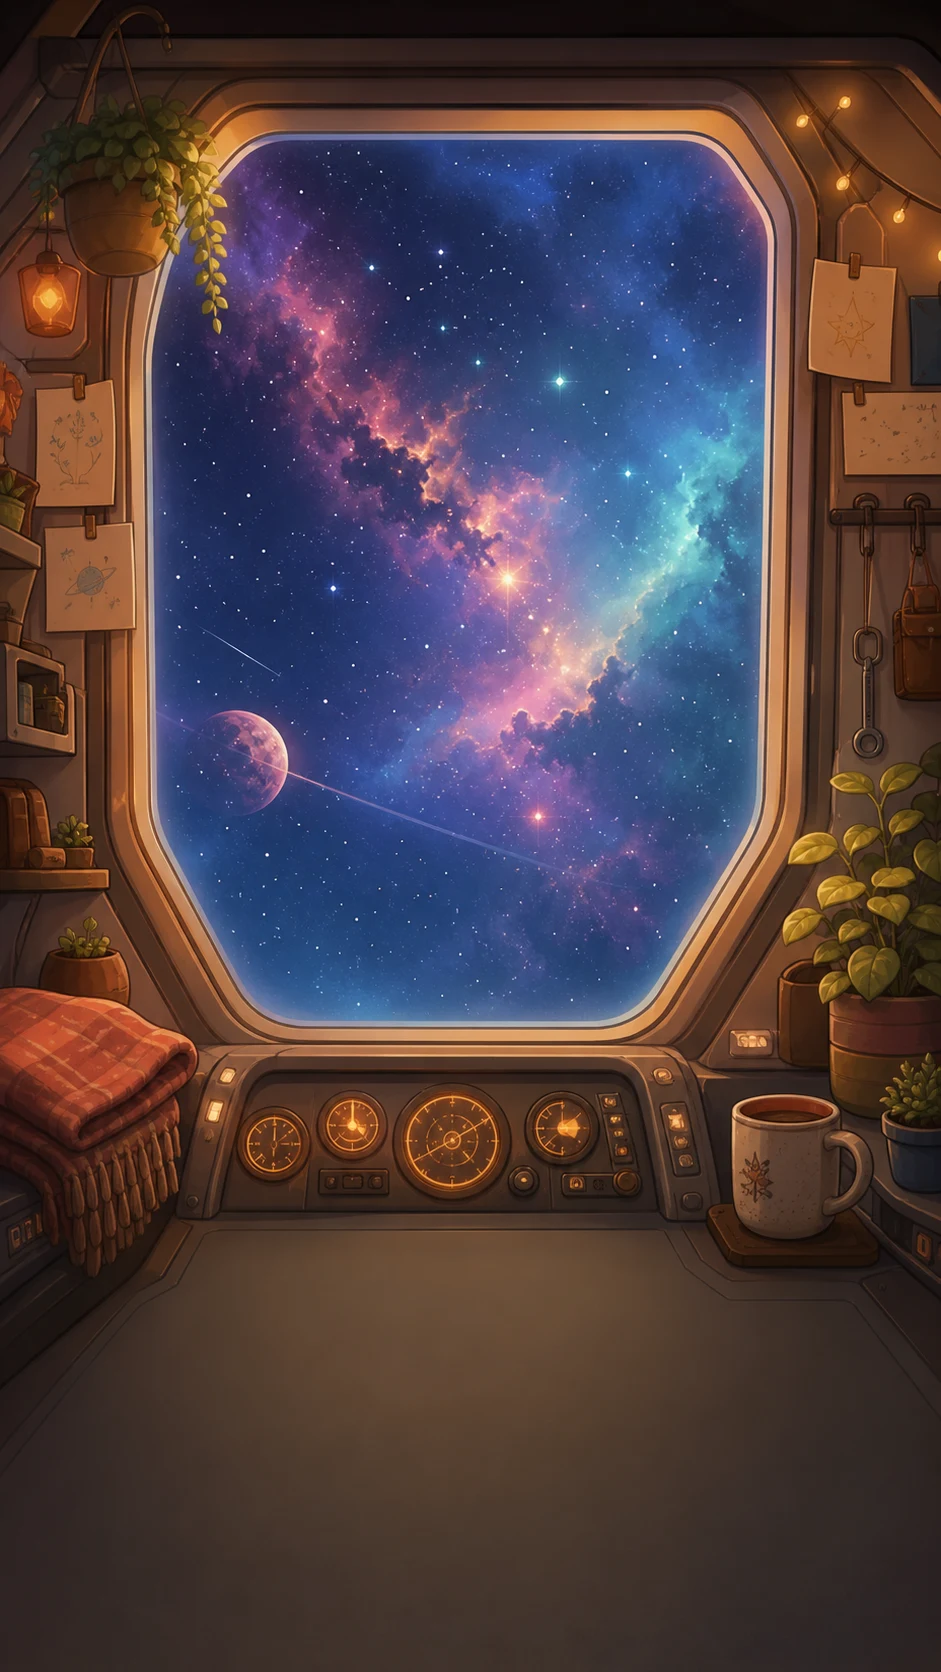
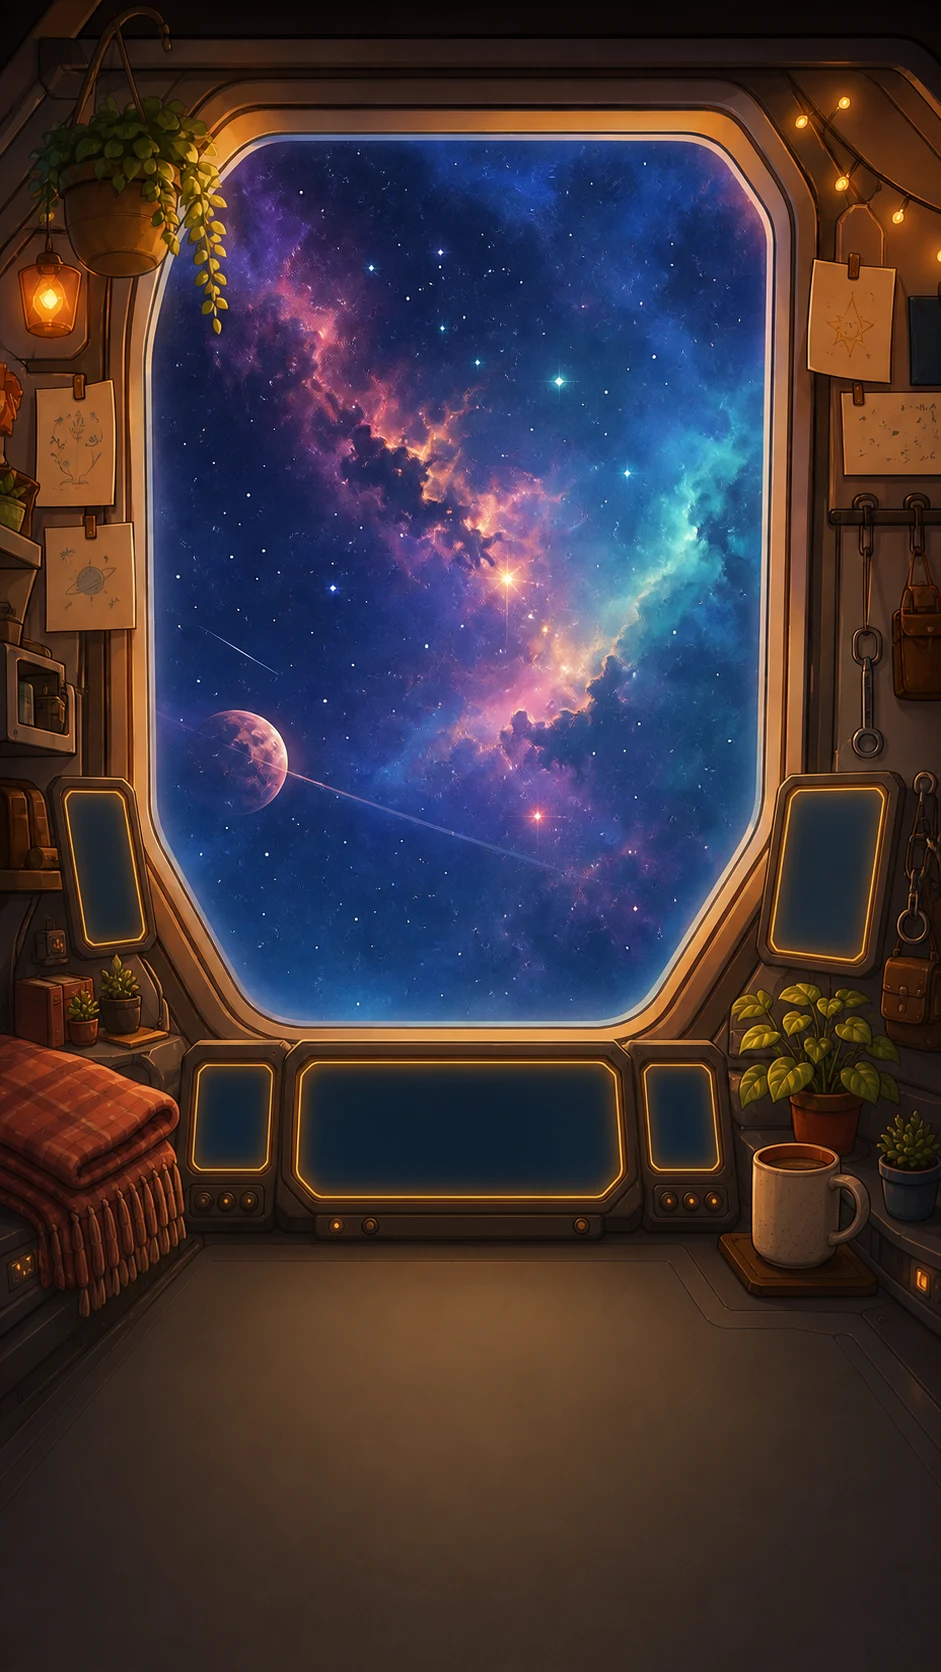
cockpit improvements, no png fallbacks

diff --git a/src/styles.css b/src/styles.css
@@ -58,7 +58,7 @@ button {
 }
 
 .topbar h1,
-.cockpit-status h2,
+.cockpit-location-display h2,
 .screen-heading h2,
 .current-lead h3,
 .voyage-overlay h2,
@@ -230,18 +230,40 @@ button {
     radial-gradient(circle at 50% 80%, rgba(255, 197, 110, 0.14), transparent 30%);
 }
 
-.cockpit-status {
+.cockpit-display {
   position: absolute;
-  inset: 10px 10px auto;
-  display: flex;
-  align-items: flex-start;
-  justify-content: space-between;
-  gap: 10px;
-  pointer-events: none;
+  z-index: 1;
+  color: #dff8ff;
+  text-shadow: 0 0 8px rgba(119, 216, 255, 0.42);
 }
 
-.cockpit-status > div:first-child {
-  max-width: 42%;
+.cockpit-location-display {
+  left: 7.5%;
+  top: 49%;
+  width: 10.5%;
+  min-height: 9%;
+  display: grid;
+  align-content: center;
+  justify-items: center;
+  padding: 6px 4px;
+  text-align: center;
+}
+
+.cockpit-location-display h2 {
+  max-width: 100%;
+  font-size: clamp(0.68rem, 2.7vw, 1rem);
+  line-height: 1.05;
+  overflow-wrap: anywhere;
+}
+
+.cockpit-resource-display {
+  right: 7.5%;
+  top: 49.5%;
+  width: 12%;
+  min-height: 10%;
+  display: grid;
+  align-content: center;
+  padding: 4px;
 }
 
 .resource-strip {
@@ -251,19 +273,16 @@ button {
 }
 
 .resource-strip.compact {
-  justify-content: flex-end;
-  max-width: min(58%, 440px);
-  padding: 6px 8px;
-  border: 1px solid rgba(255, 232, 168, 0.12);
-  border-radius: 999px;
-  background: rgba(13, 8, 25, 0.44);
-  backdrop-filter: blur(10px);
+  justify-content: center;
+  padding: 0;
+  border: 0;
+  border-radius: 0;
+  background: transparent;
+  backdrop-filter: none;
 }
 
 .resource-strip.compact .resource:not(:last-child)::after {
-  content: "·";
-  color: rgba(255, 232, 168, 0.48);
-  margin-left: 4px;
+  content: none;
 }
 
 .resource {
@@ -284,17 +303,42 @@ button {
   font-size: 0.78rem;
 }
 
+.cockpit-resource-display .resource-strip {
+  display: grid;
+  gap: 1px;
+}
+
+.cockpit-resource-display .resource {
+  justify-content: space-between;
+  gap: 3px;
+  color: #dff8ff;
+  font-size: 0.5rem;
+  line-height: 1.05;
+}
+
+.cockpit-resource-display .resource span {
+  max-width: 34px;
+  overflow: hidden;
+  color: #8fdcff;
+  font-size: 0.48rem;
+  text-overflow: clip;
+}
+
+.cockpit-resource-display .resource strong {
+  color: #ffe08b;
+  font-size: 0.56rem;
+}
+
 .current-lead {
-  position: absolute;
-  left: 10px;
-  right: 10px;
-  bottom: 10px;
-  max-height: 24%;
-  padding: 10px;
-  border: 1px solid rgba(255, 232, 168, 0.18);
-  border-radius: 8px;
-  background: rgba(17, 10, 30, 0.62);
-  backdrop-filter: blur(12px);
+  left: 29.5%;
+  right: 31%;
+  bottom: 24.6%;
+  min-height: 9.2%;
+  padding: 8px 10px;
+  border: 0;
+  border-radius: 0;
+  background: transparent;
+  backdrop-filter: none;
   overflow: hidden;
 }
 
@@ -310,18 +354,18 @@ button {
 }
 
 .current-lead h3 {
-  font-size: clamp(1rem, 4.5vw, 1.35rem);
+  font-size: clamp(0.76rem, 3.2vw, 1.1rem);
   line-height: 1.08;
 }
 
 .current-lead p:not(.eyebrow) {
   display: -webkit-box;
-  margin: 5px 0 0;
+  margin: 3px 0 0;
   overflow: hidden;
   -webkit-box-orient: vertical;
-  -webkit-line-clamp: 2;
-  font-size: 0.88rem;
-  line-height: 1.25;
+  -webkit-line-clamp: 1;
+  font-size: clamp(0.58rem, 2vw, 0.78rem);
+  line-height: 1.15;
 }
 
 .lead-footer {
@@ -329,17 +373,23 @@ button {
   align-items: center;
   justify-content: space-between;
   gap: 12px;
-  margin-top: 8px;
+  margin-top: 5px;
 }
 
 .lead-footer span {
   color: #aee8ff;
+  font-size: clamp(0.55rem, 2vw, 0.74rem);
   font-weight: 800;
 }
 
 .current-lead .primary-action {
-  min-height: 40px;
-  padding: 9px 12px;
+  min-height: 28px;
+  padding: 5px 9px;
+  border-color: rgba(255, 208, 115, 0.52);
+  border-radius: 5px;
+  background: rgba(255, 194, 92, 0.9);
+  box-shadow: 0 0 12px rgba(255, 190, 92, 0.28);
+  font-size: clamp(0.56rem, 2vw, 0.74rem);
 }
 
 .soft-alert,
@@ -785,17 +835,6 @@ button {
 
   .cockpit-screen {
     padding: 0;
-  }
-
-  .cockpit-status {
-    align-items: start;
-  }
-
-  .current-lead {
-    left: 24px;
-    right: auto;
-    bottom: 24px;
-    width: min(520px, calc(100% - 48px));
   }
 
   .system-card {

diff --git a/src/App.tsx b/src/App.tsx
@@ -202,14 +202,14 @@ function CockpitScreen({
       <section className="cockpit-hero" aria-label="Cozy ship cockpit">
         <img src={imageAssets.cockpitBackground} alt="" className="hero-art" />
         <div className="hero-shade" />
-        <div className="cockpit-status">
-          <div>
-            <p className="eyebrow">Looking out from</p>
-            <h2>{currentSystem.name}</h2>
-          </div>
+        <div className="cockpit-display cockpit-location-display">
+          <p className="eyebrow">Orbit</p>
+          <h2>{currentSystem.name}</h2>
+        </div>
+        <div className="cockpit-display cockpit-resource-display">
           <ResourceStrip state={state} compact />
         </div>
-        <div className="current-lead">
+        <div className="cockpit-display current-lead">
           <p className="eyebrow">Current lead</p>
           <h3>{currentLead.title}</h3>
           <p>{currentLead.description}</p>

diff --git a/vite.config.ts b/vite.config.ts
@@ -49,8 +49,7 @@ export default defineConfig({
         ]
       },
       workbox: {
-        globPatterns: ['**/*.{js,css,html,svg,png,webmanifest}'],
-        globIgnores: ['**/art_sheet_cleaned.png'],
+        globPatterns: ['**/*.{js,css,html,svg,png,webp,webmanifest}'],
         navigateFallback: '/amongquietstars/index.html'
       },
       devOptions: {

diff --git a/public/images/README_IMAGES.md b/public/images/README_IMAGES.md
@@ -1,6 +1,6 @@
 # Among Quiet Stars Image Assets
 
-Upload the PNG and/or WebP files in this folder to your app's `/public/images` directory.
+Upload the WebP files in this folder to your app's `/public/images` directory.
 
 For Vite/React, public assets can be referenced directly as:
 
@@ -18,4 +18,4 @@ Recommended usage:
 - `planet_*.webp` — star map or system detail tiles
 - `journal_pages_background.webp` — Journal of Wonders header/background
 
-A manifest is included as `image-manifest.json`, and a TypeScript helper is included as `image-assets.ts`.
+A manifest is included as `image-manifest.json`, and a TypeScript helper is included as `image-assets.ts`. PNG fallbacks are intentionally omitted because the app targets modern browsers.